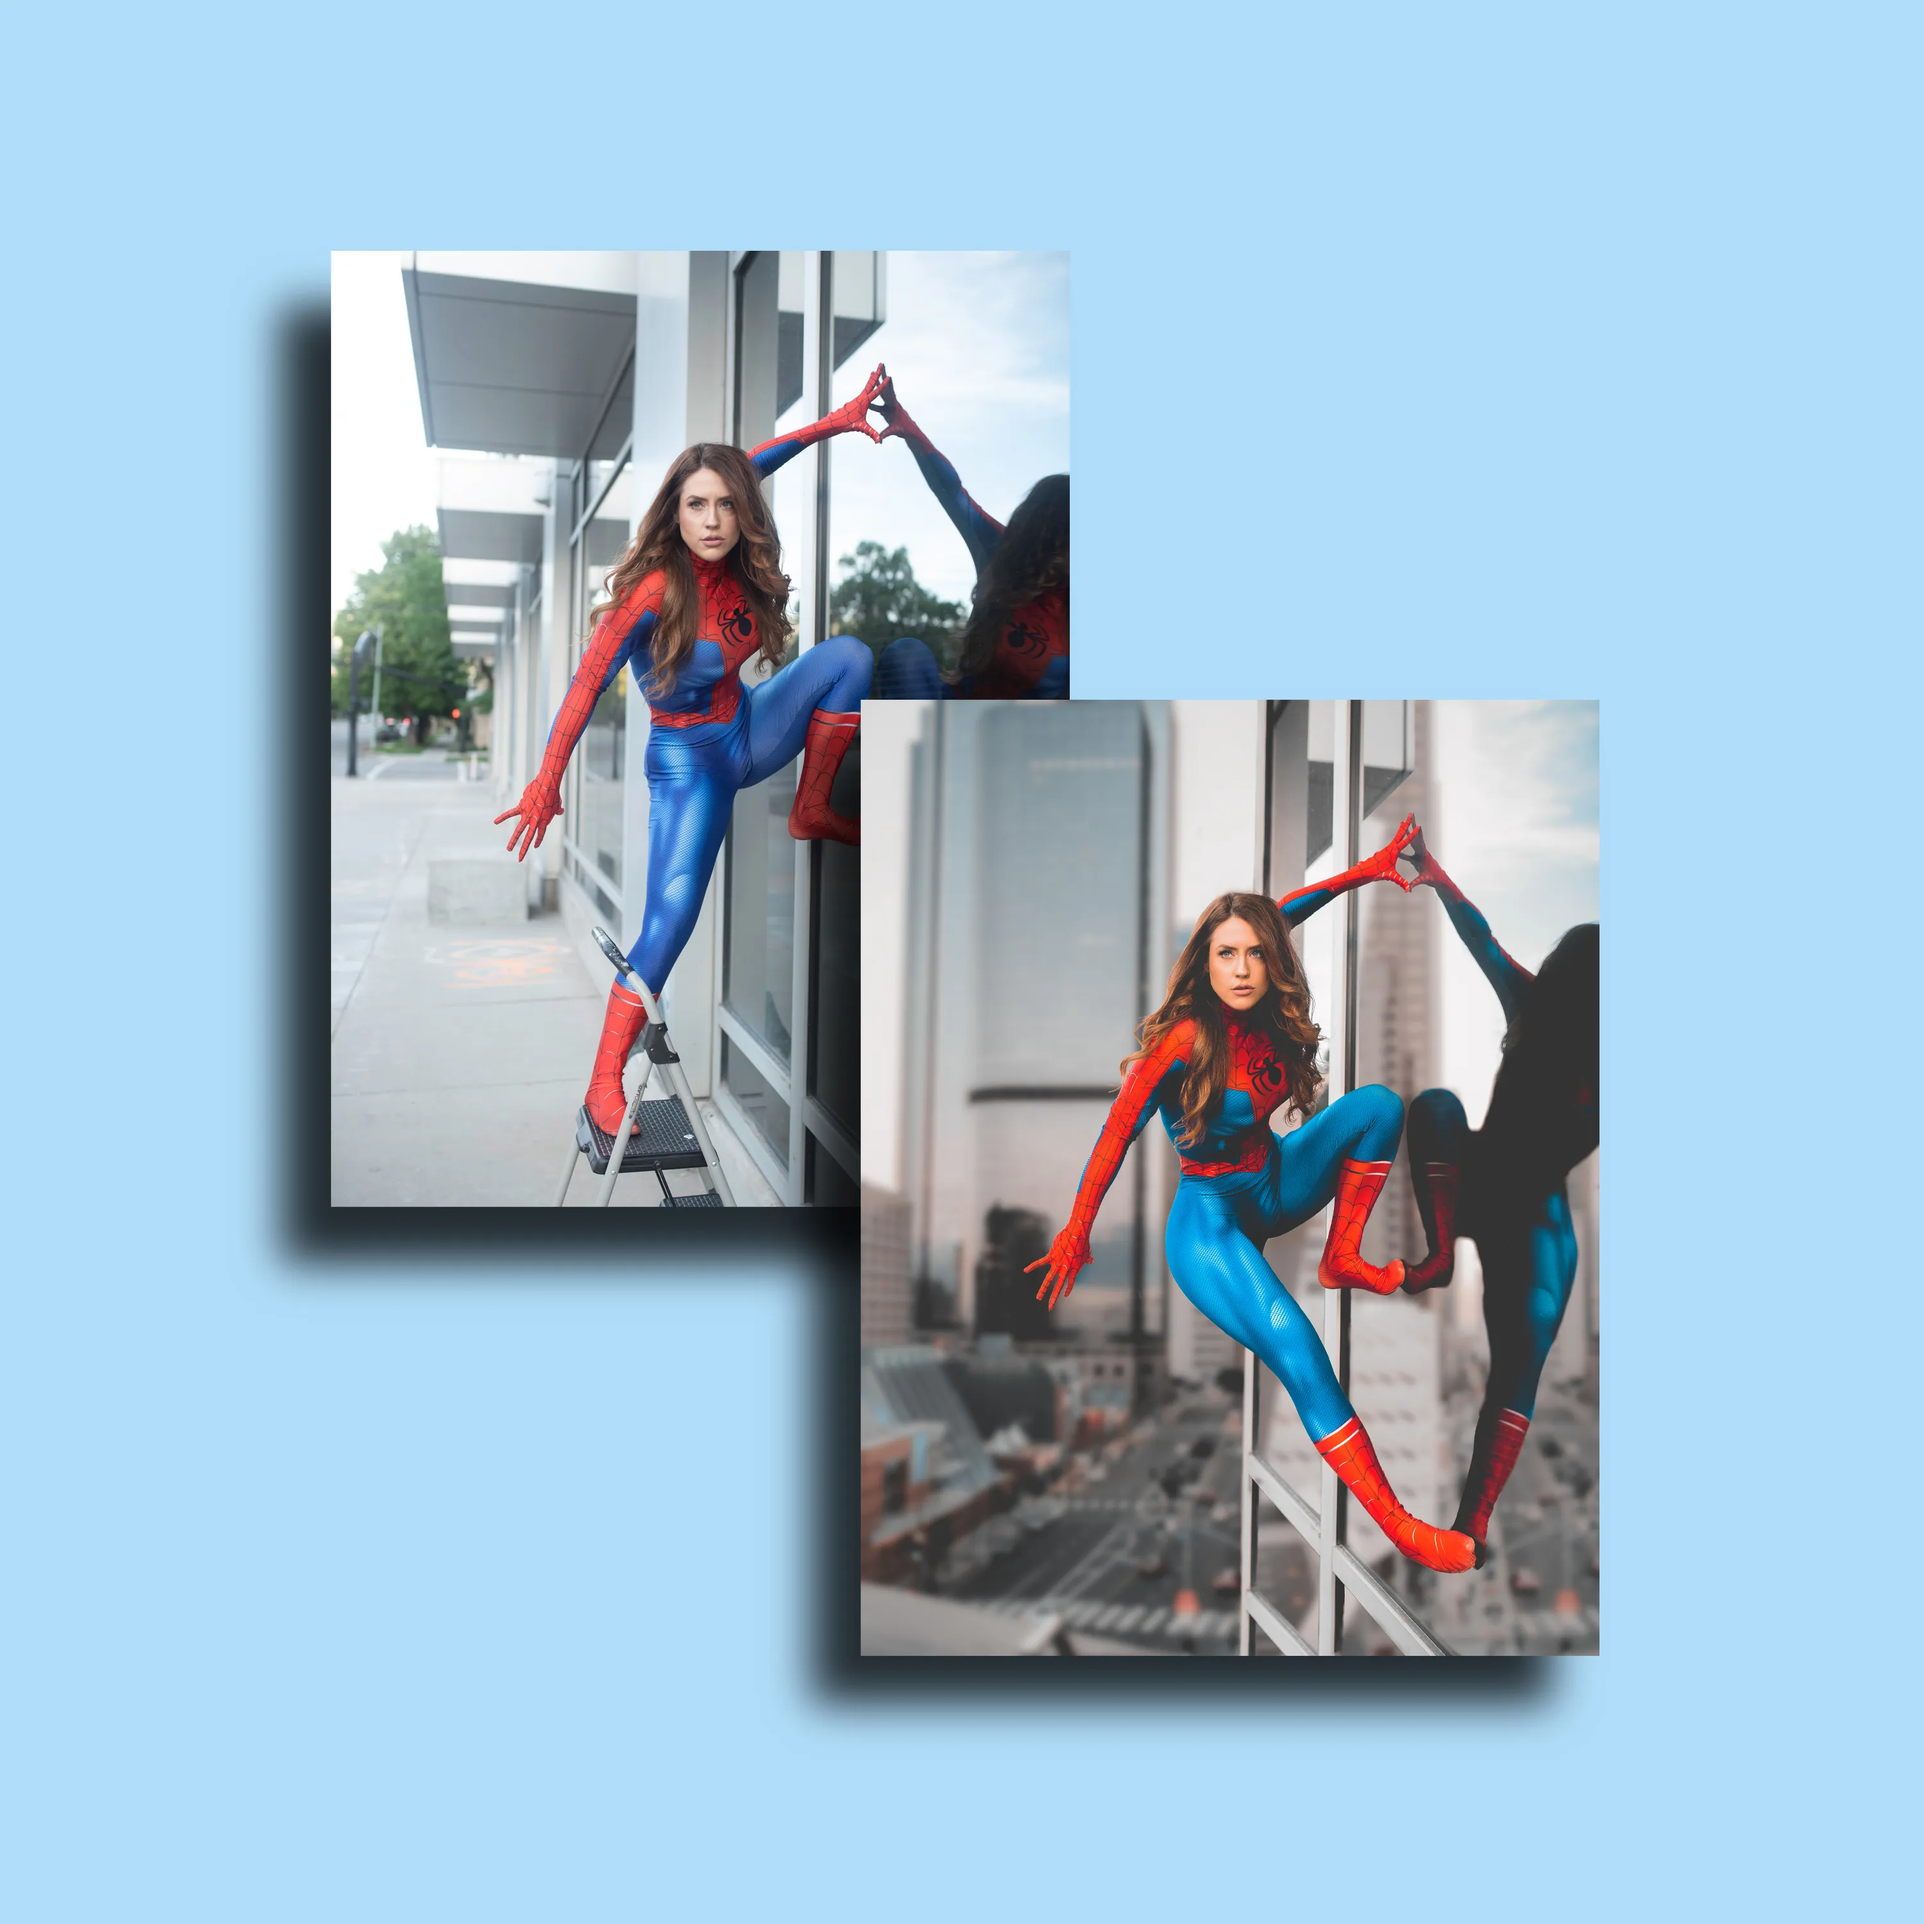
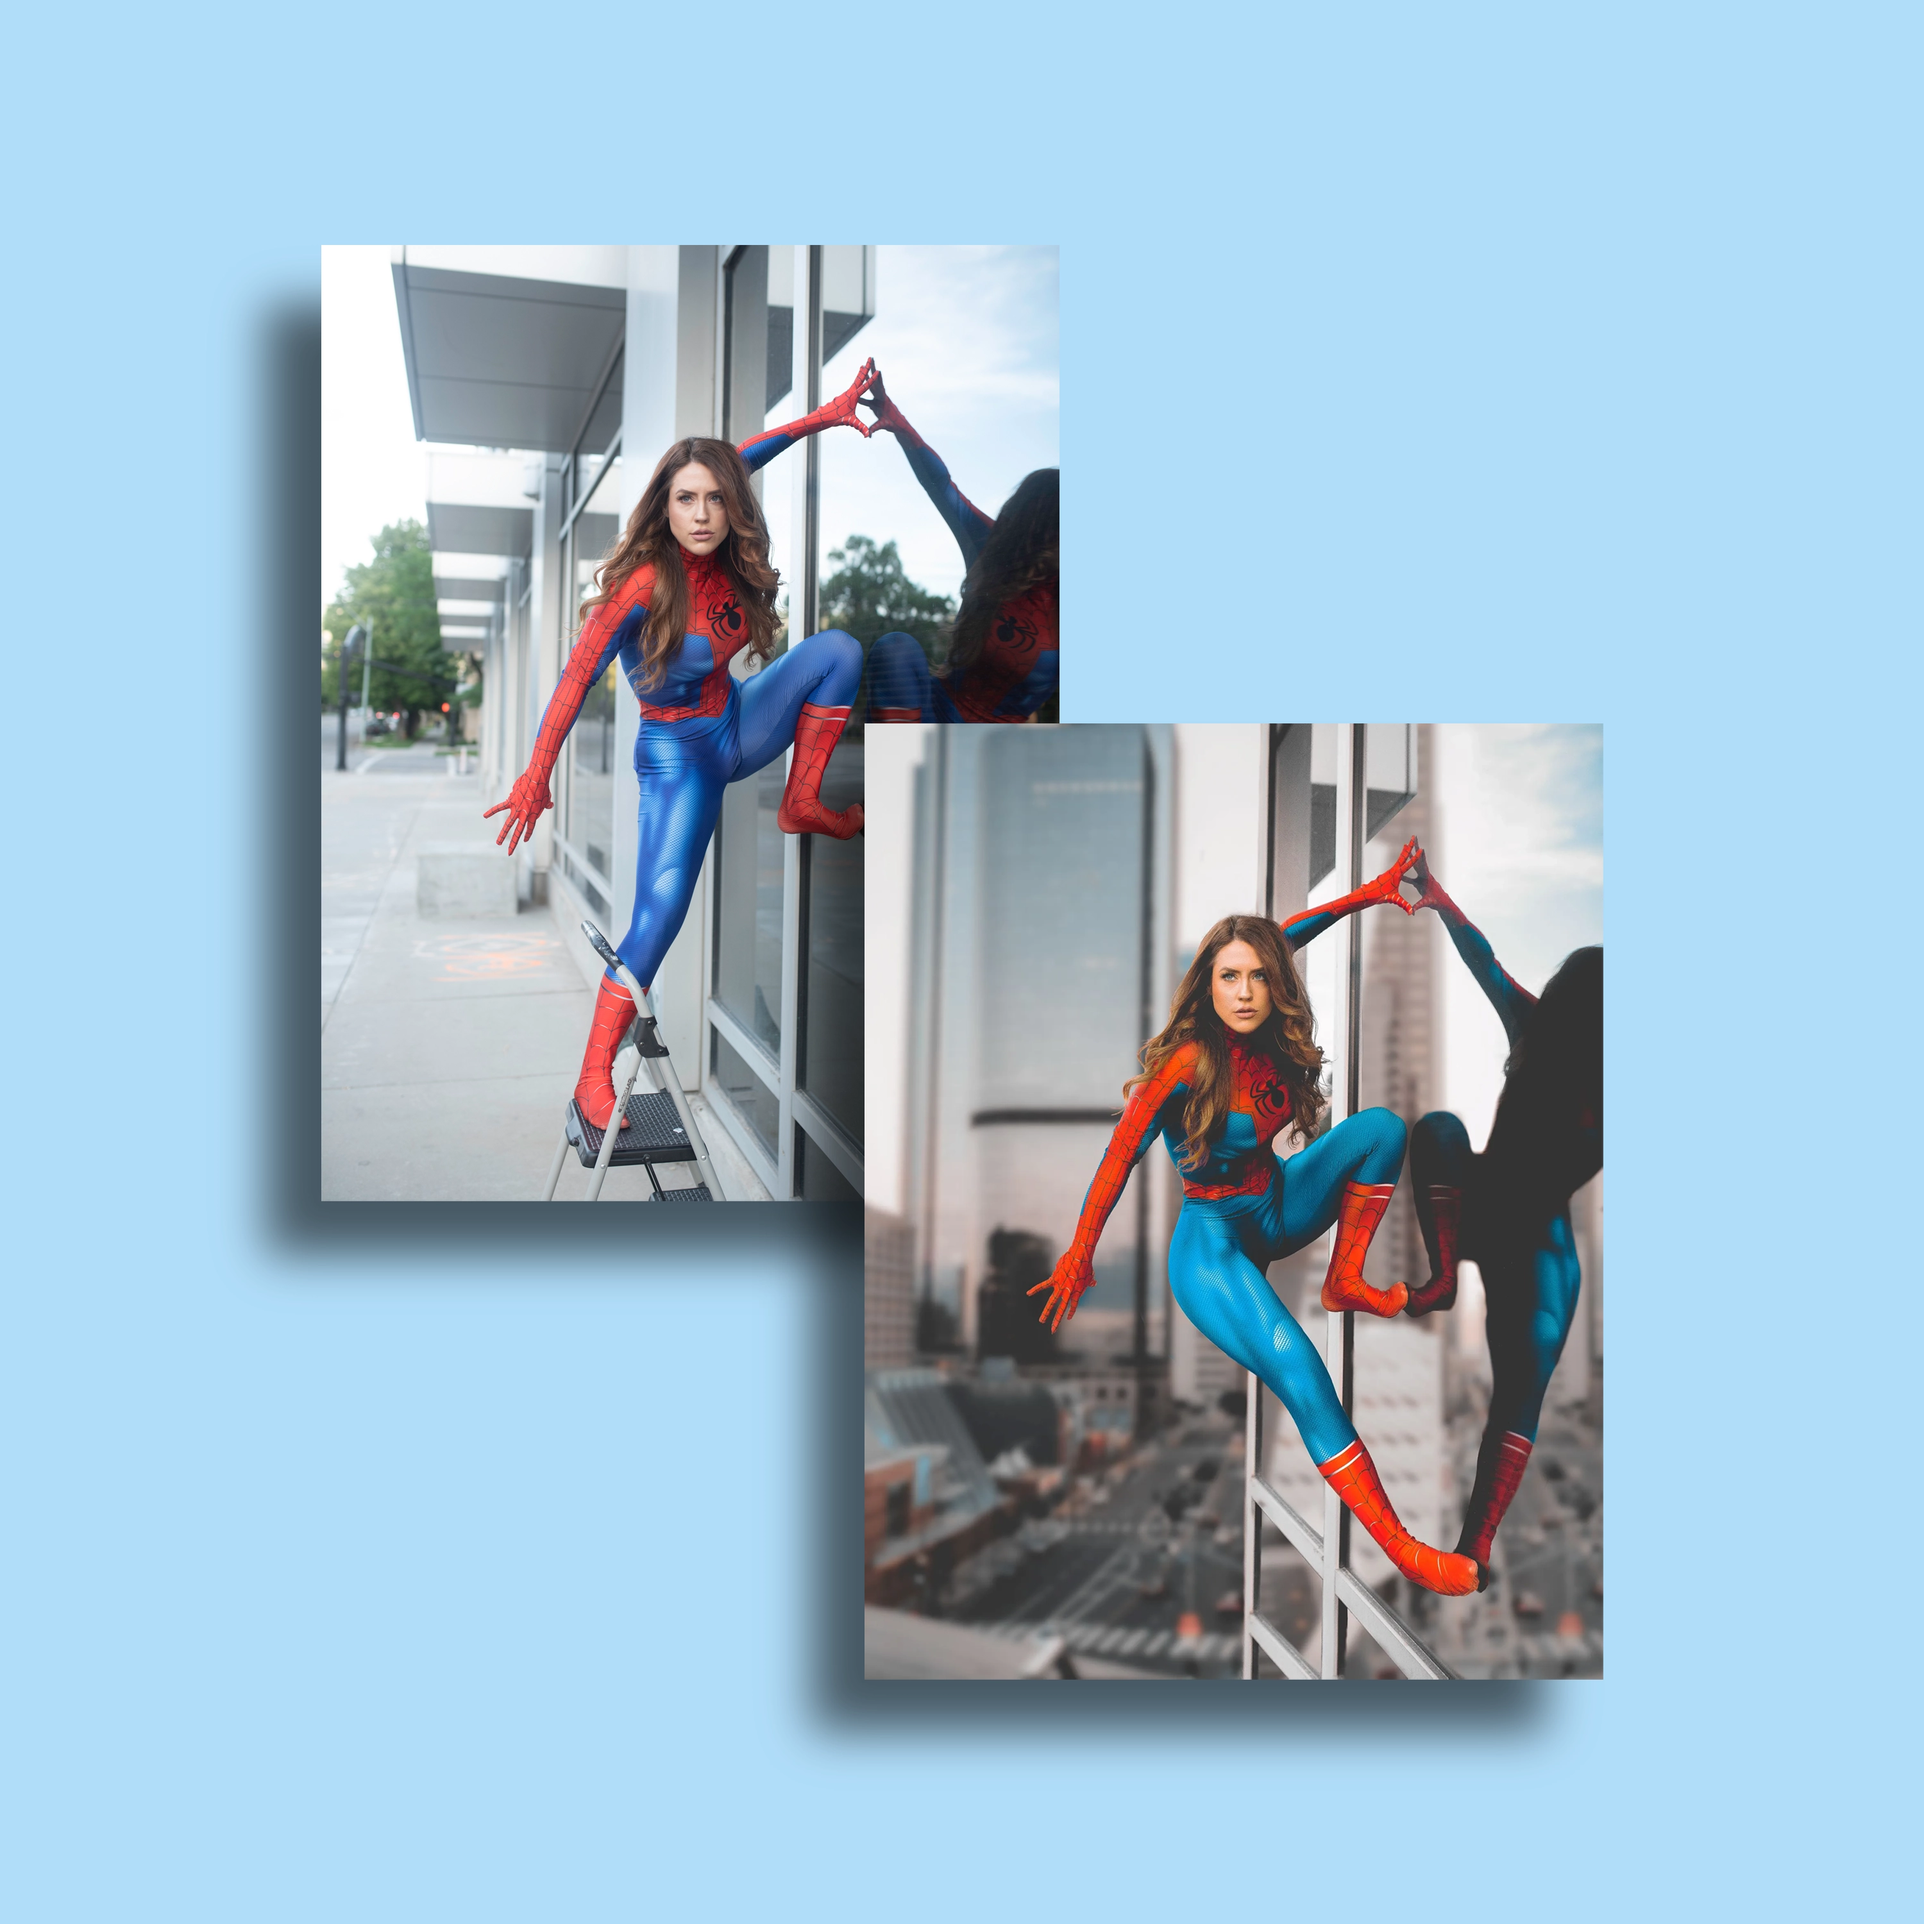
update code

Changed region(s): [[0.124, 0.124, 0.837, 0.93]]

diff --git a/_site/shop.html b/_site/shop.html
@@ -116,11 +116,11 @@
 						<div class="column" id="gallery-prints">
 	
 							<center data-aos="fade-in"  data-aos-easing="ease-in">
-								<img class="profile" src="assets/images/photos/prints2.webp" alt="profile">
+								<img id="theImage" class="profile" src="assets/images/photos/framed-prints.webp" alt="profile">
 								<br>
 								<br>
-								<button class="service-btn current" onclick="NormalPrint()">Normal</button>
-								<button class="service-btn" onclick="FramedPrint()">Framed</button>
+								<button class="service-btn" onclick="NormalPrint()">Normal</button>
+								<button class="service-btn current" onclick="FramedPrint()">Framed</button>
 								<button class="service-btn" onclick="MetalPrint()">Metal</button>
 							</center>
 	
@@ -138,7 +138,7 @@
 							</p>
 	
 							<center>
-								<p class="shop-price" id="price-2">$50.00</p>
+								<p class="shop-price" id="price-2">$150.00</p>
 								<a href="https://dosanity.darkroom.com/" class="home-about-btn" target="_blank" rel="noopener noreferrer">Shop Prints</a>
 							</center>
 	

diff --git a/shop.html b/shop.html
@@ -102,11 +102,11 @@
 						<div class="column" id="gallery-prints">
 	
 							<center data-aos="fade-in"  data-aos-easing="ease-in">
-								<img class="profile" src="assets/images/photos/prints2.webp" alt="profile">
+								<img id="theImage" class="profile" src="assets/images/photos/framed-prints.webp" alt="profile">
 								<br>
 								<br>
-								<button class="service-btn current" onclick="NormalPrint()">Normal</button>
-								<button class="service-btn" onclick="FramedPrint()">Framed</button>
+								<button class="service-btn" onclick="NormalPrint()">Normal</button>
+								<button class="service-btn current" onclick="FramedPrint()">Framed</button>
 								<button class="service-btn" onclick="MetalPrint()">Metal</button>
 							</center>
 	
@@ -124,7 +124,7 @@
 							</p>
 	
 							<center>
-								<p class="shop-price" id="price-2">$50.00</p>
+								<p class="shop-price" id="price-2">$150.00</p>
 								<a href="https://dosanity.darkroom.com/" class="home-about-btn" target="_blank" rel="noopener noreferrer">Shop Prints</a>
 							</center>
 	

diff --git a/_site/js/template.js b/_site/js/template.js
@@ -759,6 +759,8 @@ function NormalPrint() {
   else if (price.innerHTML === "$180.00") {
     price.innerHTML = "$50.00";
   } 
+
+  document.getElementById("theImage").src="assets/images/photos/normal-prints.webp";
 }
 
 function FramedPrint() {
@@ -770,6 +772,8 @@ function FramedPrint() {
   else if (price.innerHTML === "$180.00") {
     price.innerHTML = "$150.00";
   } 
+
+  document.getElementById("theImage").src="assets/images/photos/framed-prints.webp";
 }
 
 function MetalPrint() {
@@ -781,6 +785,8 @@ function MetalPrint() {
   else if (price.innerHTML === "$150.00") {
     price.innerHTML = "$180.00";
   } 
+
+  document.getElementById("theImage").src="assets/images/photos/metal-prints.webp";
 }
 
 // ====================================================================================

diff --git a/js/template.js b/js/template.js
@@ -759,6 +759,8 @@ function NormalPrint() {
   else if (price.innerHTML === "$180.00") {
     price.innerHTML = "$50.00";
   } 
+
+  document.getElementById("theImage").src="assets/images/photos/normal-prints.webp";
 }
 
 function FramedPrint() {
@@ -770,6 +772,8 @@ function FramedPrint() {
   else if (price.innerHTML === "$180.00") {
     price.innerHTML = "$150.00";
   } 
+
+  document.getElementById("theImage").src="assets/images/photos/framed-prints.webp";
 }
 
 function MetalPrint() {
@@ -781,6 +785,8 @@ function MetalPrint() {
   else if (price.innerHTML === "$150.00") {
     price.innerHTML = "$180.00";
   } 
+
+  document.getElementById("theImage").src="assets/images/photos/metal-prints.webp";
 }
 
 // ====================================================================================
